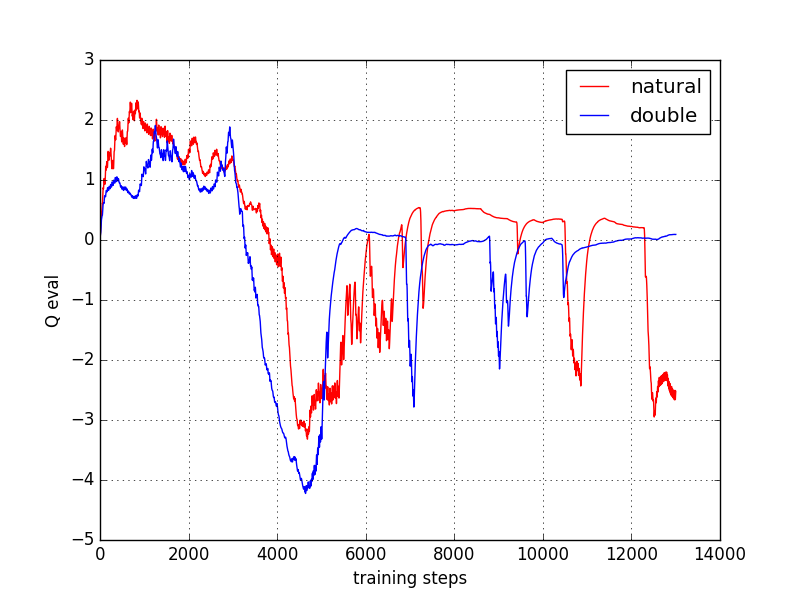
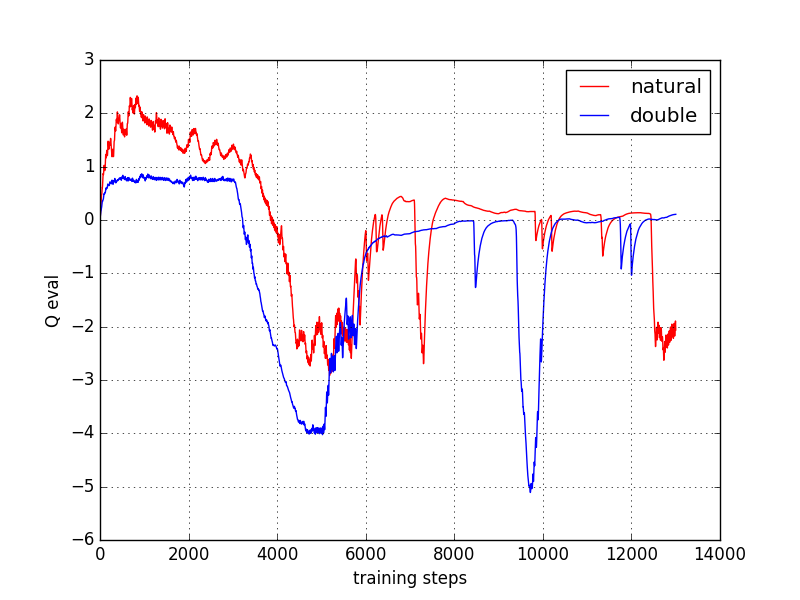
edit

diff --git a/_contents/tutorials/machine-learning/reinforcement-learning/4-3-DQN3.md b/_contents/tutorials/machine-learning/reinforcement-learning/4-3-DQN3.md
@@ -89,7 +89,7 @@ class DeepQNetwork:
         self.learn_step_counter = 0
 
         # 初始化全 0 记忆 [s, a, r, s_]
-        self.memory = pd.DataFrame(np.zeros((self.memory_size, n_features*2+2)))
+        self.memory = np.zeros((self.memory_size, n_features*2+2)) # 和视频中不同, 因为 pandas 运算比较慢, 这里改为直接用 numpy
 
         # 创建 [target_net, evaluate_net]
         self._build_net()
@@ -123,7 +123,7 @@ class DeepQNetwork:
 
         # 总 memory 大小是固定的, 如果超出总大小, 旧 memory 就被新 memory 替换
         index = self.memory_counter % self.memory_size
-        self.memory.iloc[index, :] = transition # 替换过程
+        self.memory[index, :] = transition # 替换过程
 
         self.memory_counter += 1
 ```
@@ -192,16 +192,18 @@ class DeepQNetwork:
             print('\ntarget_params_replaced\n')
 
         # 从 memory 中随机抽取 batch_size 这么多记忆
-        batch_memory = self.memory.sample(self.batch_size) \
-            if self.memory_counter > self.memory_size \
-            else self.memory.iloc[:self.memory_counter].sample(self.batch_size, replace=True)
+        if self.memory_counter > self.memory_size:
+            sample_index = np.random.choice(self.memory_size, size=self.batch_size)
+        else:
+            sample_index = np.random.choice(self.memory_counter, size=self.batch_size)
+        batch_memory = self.memory[sample_index, :]
 
         # 获取 q_next (target_net 产生了 q) 和 q_eval(eval_net 产生的 q)
         q_next, q_eval = self.sess.run(
             [self.q_next, self.q_eval],
             feed_dict={
-                self.s_: batch_memory.iloc[:, -self.n_features:],
-                self.s: batch_memory.iloc[:, :self.n_features]
+                self.s_: batch_memory[:, -self.n_features:],
+                self.s: batch_memory[:, :self.n_features]
             })
 
         # 下面这几步十分重要. q_next, q_eval 包含所有 action 的值,
@@ -220,8 +222,8 @@ class DeepQNetwork:
 
         q_target = q_eval.copy()
         batch_index = np.arange(self.batch_size, dtype=np.int32)
-        eval_act_index = batch_memory.iloc[:, self.n_features].astype(int)
-        reward = batch_memory.iloc[:, self.n_features + 1]
+        eval_act_index = batch_memory[:, self.n_features].astype(int)
+        reward = batch_memory[:, self.n_features + 1]
 
         q_target[batch_index, eval_act_index] = reward + self.gamma * np.max(q_next, axis=1)
 
@@ -254,7 +256,7 @@ class DeepQNetwork:
 
         # 训练 eval_net
         _, self.cost = self.sess.run([self._train_op, self.loss],
-                                     feed_dict={self.s: batch_memory.iloc[:, :self.n_features],
+                                     feed_dict={self.s: batch_memory[:, :self.n_features],
                                                 self.q_target: q_target})
         self.cost_his.append(self.cost) # 记录 cost 误差
 

diff --git a/_contents/tutorials/machine-learning/reinforcement-learning/4-5-double_DQN.md b/_contents/tutorials/machine-learning/reinforcement-learning/4-5-double_DQN.md
@@ -109,21 +109,22 @@ class DoubleDQN:
             self._replace_target_params()
             print('\ntarget_params_replaced\n')
 
-        batch_memory = self.memory.sample(self.batch_size) \
-            if self.memory_counter > self.memory_size \
-            else self.memory.iloc[:self.memory_counter].sample(self.batch_size, replace=True)
-
+        if self.memory_counter > self.memory_size:
+            sample_index = np.random.choice(self.memory_size, size=self.batch_size)
+        else:
+            sample_index = np.random.choice(self.memory_counter, size=self.batch_size)
+        batch_memory = self.memory[sample_index, :]
 
         # 这一段和 DQN 不一样
         q_next, q_eval4next = self.sess.run(
             [self.q_next, self.q_eval],
-            feed_dict={self.s_: batch_memory.iloc[:, -self.n_features:],    # next observation
-                       self.s: batch_memory.iloc[:, -self.n_features:]})    # next observation
-        q_eval = self.sess.run(self.q_eval, {self.s: batch_memory.iloc[:, :self.n_features]})
+            feed_dict={self.s_: batch_memory[:, -self.n_features:],    # next observation
+                       self.s: batch_memory[:, -self.n_features:]})    # next observation
+        q_eval = self.sess.run(self.q_eval, {self.s: batch_memory[:, :self.n_features]})
         q_target = q_eval.copy()
         batch_index = np.arange(self.batch_size, dtype=np.int32)
-        eval_act_index = batch_memory.iloc[:, self.n_features].astype(int)
-        reward = batch_memory.iloc[:, self.n_features + 1]
+        eval_act_index = batch_memory[:, self.n_features].astype(int)
+        reward = batch_memory[:, self.n_features + 1]
 
         if self.double_q:   # 如果是 Double DQN
             max_act4next = np.argmax(q_eval4next, axis=1)        # q_eval 得出的最高奖励动作
@@ -136,7 +137,7 @@ class DoubleDQN:
 
         # 这下面和 DQN 一样:
         _, self.cost = self.sess.run([self._train_op, self.loss],
-                                     feed_dict={self.s: batch_memory.iloc[:, :self.n_features],
+                                     feed_dict={self.s: batch_memory[:, :self.n_features],
                                                 self.q_target: q_target})
         self.cost_his.append(self.cost)
         self.epsilon = self.epsilon + self.epsilon_increment if self.epsilon < self.epsilon_max else self.epsilon_max

diff --git a/_contents/tutorials/machine-learning/reinforcement-learning/4-6-prioritized-replay.md b/_contents/tutorials/machine-learning/reinforcement-learning/4-6-prioritized-replay.md
@@ -153,7 +153,7 @@ class DQNPrioritiedReplay:
         if self.prioritized:
             self.memory = Memory(capacity=memory_size)
         else:
-            self.memory = pd.DataFrame(np.zeros((self.memory_size, n_features*2+2)))
+            self.memory = np.zeros((self.memory_size, n_features*2+2))
 
         if sess is None:
             self.sess = tf.Session()
@@ -205,7 +205,7 @@ class DQNPrioritizedReplay:
                 self.memory_counter = 0
             transition = np.hstack((s, [a, r], s_))
             index = self.memory_counter % self.memory_size
-            self.memory.iloc[index, :] = transition
+            self.memory[index, :] = transition
             self.memory_counter += 1
 ```
 
@@ -220,8 +220,8 @@ class DQNPrioritizedReplay:
         if self.prioritized:
             tree_idx, batch_memory, ISWeights = self.memory.sample(self.batch_size)
         else:
-            batch_memory = self.memory.sample(self.batch_size)
-        batch_memory = np.asarray(batch_memory)
+            sample_index = np.random.choice(self.memory_size, size=self.batch_size)
+            batch_memory = self.memory[sample_index, :]
 
         ...
 

diff --git a/_contents/tutorials/machine-learning/reinforcement-learning/4-7-dueling-DQN.md b/_contents/tutorials/machine-learning/reinforcement-learning/4-7-dueling-DQN.md
@@ -126,7 +126,7 @@ class DuelingDQN:
 所以当累积奖励没有在降低时, 说明杆子已经被成功立了很久了.
 
 <a href="/static/results/rl/4-7-5.jpg">
-<img class="course-image" src="/static/results/rl/4-7-5.jpg">
+<img class="course-image" src="/static/results/rl/4-7-5.png">
 </a>
 
 我们发现当可用动作越高, 学习难度就越大, 不过 Dueling DQN 还是会比 Natural DQN 学习得更快. 收敛效果更好.
